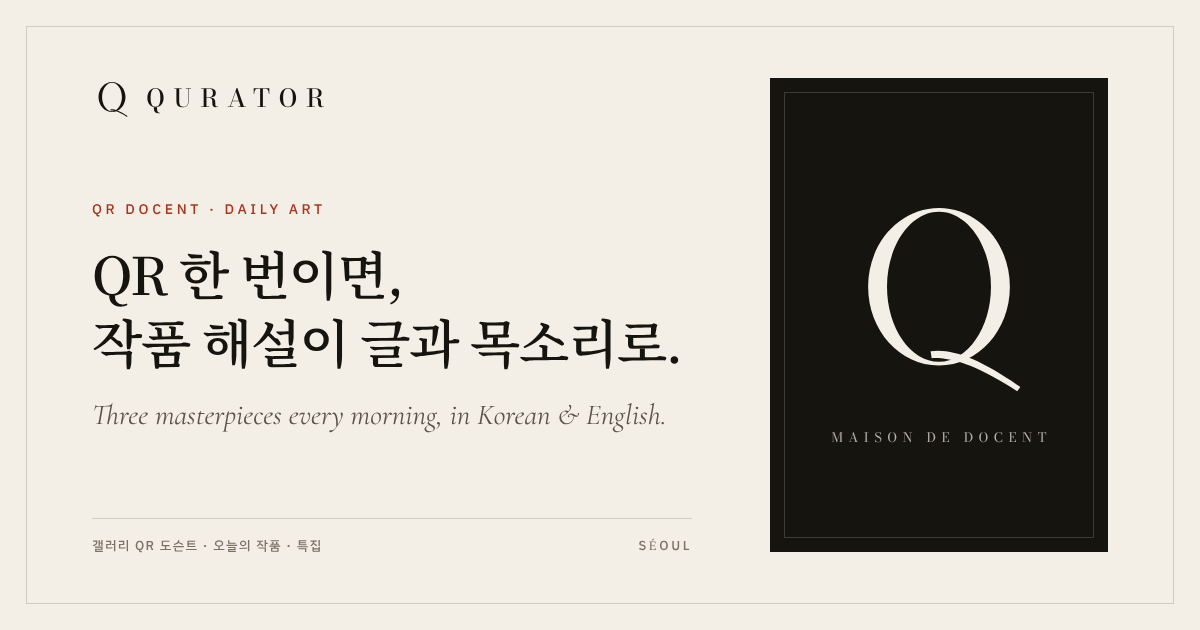
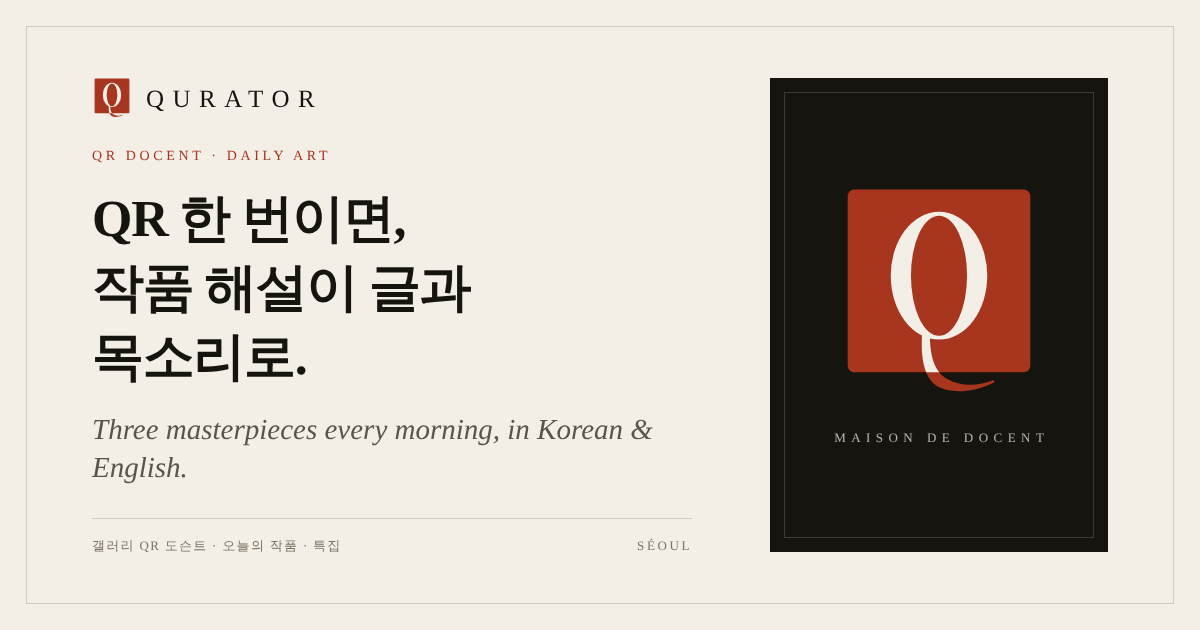
로고 A안(낙관) 적용: 헤더·푸터·파비콘·PWA 아이콘·공유 이미지·공유 카드·앱 리소스·스토어 이미지 스크립트
Claude-Session: https://claude.ai/code/session_018uVF2mKvgsWBzXT1hwYuMU

diff --git a/assets/app.js b/assets/app.js
@@ -469,7 +469,7 @@ function renderShell(route) {
   $$('.lang button').forEach(b => b.classList.toggle('on', b.dataset.lang === S.lang));
   document.documentElement.lang = S.lang;
   $('#foot').innerHTML = `<div class="foot-in">
-    <div class="foot-brand">${LOGO_MARK}<div><div class="fw">QURATOR</div><div class="fs">MAISON DE DOCENT · SÉOUL</div></div></div>
+    <div class="foot-brand">${logoMark()}<div><div class="fw">QURATOR</div><div class="fs">MAISON DE DOCENT · SÉOUL</div></div></div>
     <nav class="foot-links">${PLAY ? '' : `<a href="#/galleries">${S.lang === 'ko' ? '갤러리 도입 안내' : 'For galleries'}</a>`}<a href="#/giving">${t('nav_giving')} · Oriel</a><a href="#/support">${t('nav_support')}</a><a href="${KAKAO}" target="_blank" rel="noopener">${S.lang === 'ko' ? '카카오톡 문의' : 'KakaoTalk'}</a><a href="#/policy/terms">${t('terms')}</a><a href="#/policy/privacy"><b>${t('privacy')}</b></a>${IOS ? '' : `<a href="#/policy/refund">${t('refund')}</a>`}</nav>
   </div>
   <div class="foot-in foot-legal"><span>${esc(t('biz'))}</span><span>© 2026 QURATOR · ${esc(t('foot_note'))}</span></div>`;
@@ -1023,10 +1023,12 @@ async function drawCard(w, lang) {
   };
   x.fillStyle = PAPER; x.fillRect(0, 0, W, H);
   // masthead: Didone Q + wordmark | Daily Art
-  x.save(); x.translate(M - 4, 52); x.scale(1.5, 1.5); x.fillStyle = INK;
-  x.fill(new Path2D('M20 4C12.5 4 6.5 10.7 6.5 19S12.5 34 20 34 33.5 27.3 33.5 19 27.5 4 20 4Zm0 .7c-5.4 0-9.9 6.4-9.9 14.3S14.6 33.3 20 33.3 29.9 26.9 29.9 19 25.4 4.7 20 4.7Z'), 'evenodd');
-  x.fill(new Path2D('M18.4 31.3c4.3-.6 9.6 1.6 17.1 6.8l-.6.8c-7-4.5-12-6.5-16.3-6.3Z')); x.restore();
-  x.fillStyle = INK; x.font = `500 27px ${BOD}`; x.textBaseline = 'alphabetic'; spaced('QURATOR', M + 64, 92, 9);
+  x.save(); x.translate(M - 4, 46); x.scale(.4, .4); x.translate(-19.5, -24);
+  { const tail = new Path2D('M93,137 C93,153 96,165 106,171 C116,177 130,177 142,172 L142.5,173.6 C128,181 110,183 99,177 C88,170 86,154 87,137 Z'); x.fillStyle = '#A8361F'; x.fill(tail);
+    const seal = new Path2D(); seal.roundRect(30, 26, 140, 140, 5); x.fill(seal); x.clip(seal);
+    x.fillStyle = PAPER; x.fill(new Path2D('M63,92 A37,49 0 1 0 137,92 A37,49 0 1 0 63,92 Z M78.5,92 A21.5,46 0 1 0 121.5,92 A21.5,46 0 1 0 78.5,92 Z'), 'evenodd'); x.fill(tail); }
+  x.restore();
+  x.fillStyle = INK; x.font = `500 27px ${BOD}`; x.textBaseline = 'alphabetic'; spaced('QURATOR', M + 76, 92, 9);
   x.fillStyle = MUTED; x.font = `500 17px ${SANS}`; spaced('DAILY ART', W - M, 90, 5, 'right');
   x.fillStyle = 'rgba(22,20,15,.16)'; x.fillRect(M, 128, W - 2 * M, 1);
   // artwork, contained in a soft mat
@@ -1221,7 +1223,9 @@ function viewGalleries() {
 }
 
 /* ---------------- brand ---------------- */
-const LOGO_MARK = '<svg class="mono" viewBox="0 0 40 40" aria-hidden="true"><path fill="currentColor" fill-rule="evenodd" d="M20 4C12.5 4 6.5 10.7 6.5 19S12.5 34 20 34 33.5 27.3 33.5 19 27.5 4 20 4Zm0 .7c-5.4 0-9.9 6.4-9.9 14.3S14.6 33.3 20 33.3 29.9 26.9 29.9 19 25.4 4.7 20 4.7Z"/><path fill="currentColor" d="M18.4 31.3c4.3-.6 9.6 1.6 17.1 6.8l-.6.8c-7-4.5-12-6.5-16.3-6.3Z"/></svg>';
+let _qm = 0;
+const LOGO_MARK_SVG = '<svg class="mono" xmlns="http://www.w3.org/2000/svg" viewBox="19.5 24 161 161" aria-hidden="true"><defs><clipPath id="__ID__"><rect x="30" y="26" width="140" height="140" rx="5"/></clipPath></defs><path fill="#A8361F" d="M93,137 C93,153 96,165 106,171 C116,177 130,177 142,172 L142.5,173.6 C128,181 110,183 99,177 C88,170 86,154 87,137 Z"/><rect x="30" y="26" width="140" height="140" rx="5" fill="#A8361F"/><g clip-path="url(#__ID__)" fill="#F3EFE6"><path fill-rule="evenodd" d="M63,92 A37,49 0 1 0 137,92 A37,49 0 1 0 63,92 Z M78.5,92 A21.5,46 0 1 0 121.5,92 A21.5,46 0 1 0 78.5,92 Z"/><path d="M93,137 C93,153 96,165 106,171 C116,177 130,177 142,172 L142.5,173.6 C128,181 110,183 99,177 C88,170 86,154 87,137 Z"/></g></svg>';
+const logoMark = () => LOGO_MARK_SVG.split('__ID__').join('qm' + (++_qm));
 
 /* ---------------- membership ---------------- */
 /* Subscribers get a signed link #/m/<token> from the private ledger (주문·멤버 장부).
@@ -1432,7 +1436,7 @@ function viewCheckout() {
     ${pending ? `<div class="co-resume"><p><span>${t('co_resume')}</span><b>${esc(pending.id)}</b></p><button type="button" class="btn btn-ink btn-sm" id="coRes">${t('co_resume_b')} →</button></div>` : ''}</div></section>
   <div class="wrap checkout">
     <aside class="co-sum">
-      <div class="co-mark">${LOGO_MARK}</div>
+      <div class="co-mark">${logoMark()}</div>
       <p class="eyebrow">Daily Art Membership</p>
       <div class="co-amt">₩${PAY.price.toLocaleString()}<small> / ${t('co_month')}</small></div>
       <p class="co-vat">${t('co_vat')}</p>
@@ -1481,7 +1485,7 @@ function showOrder(id, o) {
   const rn = o.renew ? `\n현재 만료일: ${o.renew.exp}${o.renew.ref ? `\n링크 번호: ${o.renew.ref}` : ''}` : '';
   const msg = `[QURATOR Daily Art ${o.renew ? '연장' : '구독'} 신청]\n주문번호: ${id}\n이름: ${o.name}\n이메일: ${o.email}\n금액: 월 ${PAY.price.toLocaleString()}원\n입금자명: ${payer}${rn}`;
   $('.checkout').innerHTML = `<div class="co-done">
-    <div class="co-mark">${LOGO_MARK}</div><p class="eyebrow">${o.renew ? 'Renewal' : 'Order'}</p><h2>${t('co_order')}</h2>
+    <div class="co-mark">${logoMark()}</div><p class="eyebrow">${o.renew ? 'Renewal' : 'Order'}</p><h2>${t('co_order')}</h2>
     <div class="co-id">${esc(id)}</div><p>${t('co_order_p')}</p>
     <dl class="co-bank">
       <div><dt>${t('co_acct')}</dt><dd><b>${BANK.name} ${BANK.number}</b> <button type="button" class="co-mini" id="cpa">${t('co_cpacct')}</button></dd></div>
@@ -1501,7 +1505,7 @@ function showOrder(id, o) {
 }
 async function viewPayResult(q) {
   const ok = q.get('pay') === 'success', pend = store.get('q_pending', {});
-  const box = c => { app().innerHTML = `<div class="wrap checkout"><div class="co-done"><div class="co-mark">${LOGO_MARK}</div>${c}</div></div>`; };
+  const box = c => { app().innerHTML = `<div class="wrap checkout"><div class="co-done"><div class="co-mark">${logoMark()}</div>${c}</div></div>`; };
   if (!ok) { box(`<h2>${t('pay_fail')}</h2><p>${esc(q.get('message') || '')}</p><p>${t('pay_fail_p')}</p><div class="co-acts"><a class="btn btn-ink" href="#/checkout">${t('co_pay')}</a><a class="btn btn-kakao" href="${KAKAO}" target="_blank" rel="noopener">${t('co_open')}</a></div>`); return; }
   if (!PAY.apiBase) { box(`<p class="eyebrow">Toss Payments</p><h2>${t('pay_test_ok')}</h2><p>${t('pay_test_p')}</p><div class="co-acts"><a class="btn btn-ink" href="#/today">${t('nav_today')} →</a></div>`); return; }
   box(`<p class="note"><span class="spinner"></span> ${t('pay_wait')}</p>`);

diff --git a/scripts/og.html b/scripts/og.html
@@ -21,11 +21,11 @@ h1{margin-top:22px;font:600 52px/1.32 "Noto Serif KR";letter-spacing:-.025em}
 .seal{position:absolute;right:34px;bottom:34px;width:30px;height:30px;background:#A8361F;border-radius:2px;display:grid;place-items:center;font:600 15px/1 "Noto Serif KR";color:#F3EFE6;box-shadow:inset 0 0 0 2px rgba(255,255,255,.16)}
 </style></head><body>
 <div class="l">
- <div class="brand"><svg viewBox="0 0 40 40"><path fill="#16140F" fill-rule="evenodd" d="M20 4C12.5 4 6.5 10.7 6.5 19S12.5 34 20 34 33.5 27.3 33.5 19 27.5 4 20 4Zm0 .7c-5.4 0-9.9 6.4-9.9 14.3S14.6 33.3 20 33.3 29.9 26.9 29.9 19 25.4 4.7 20 4.7Z"/><path fill="#16140F" d="M18.4 31.3c4.3-.6 9.6 1.6 17.1 6.8l-.6.8c-7-4.5-12-6.5-16.3-6.3Z"/></svg><b>QURATOR</b></div>
+ <div class="brand"><svg xmlns="http://www.w3.org/2000/svg" viewBox="19.5 24 161 161"><defs><clipPath id="qs"><rect x="30" y="26" width="140" height="140" rx="5"/></clipPath></defs><path fill="#A8361F" d="M93,137 C93,153 96,165 106,171 C116,177 130,177 142,172 L142.5,173.6 C128,181 110,183 99,177 C88,170 86,154 87,137 Z"/><rect x="30" y="26" width="140" height="140" rx="5" fill="#A8361F"/><g clip-path="url(#qs)" fill="#F3EFE6"><path fill-rule="evenodd" d="M63,92 A37,49 0 1 0 137,92 A37,49 0 1 0 63,92 Z M78.5,92 A21.5,46 0 1 0 121.5,92 A21.5,46 0 1 0 78.5,92 Z"/><path d="M93,137 C93,153 96,165 106,171 C116,177 130,177 142,172 L142.5,173.6 C128,181 110,183 99,177 C88,170 86,154 87,137 Z"/></g></svg><b>QURATOR</b></div>
  <p class="eyebrow">QR DOCENT · DAILY ART</p>
  <h1>QR 한 번이면,<br>작품 해설이 글과 목소리로.</h1>
  <p class="en">Three masterpieces every morning, in Korean &amp; English.</p>
  <div class="foot"><span style="letter-spacing:.1em">갤러리 QR 도슨트 · 오늘의 작품 · 특집</span><span>SÉOUL</span></div>
 </div>
-<div class="r"><svg viewBox="0 0 40 40"><path fill="currentColor" fill-rule="evenodd" d="M20 4C12.5 4 6.5 10.7 6.5 19S12.5 34 20 34 33.5 27.3 33.5 19 27.5 4 20 4Zm0 .7c-5.4 0-9.9 6.4-9.9 14.3S14.6 33.3 20 33.3 29.9 26.9 29.9 19 25.4 4.7 20 4.7Z"/><path fill="currentColor" d="M18.4 31.3c4.3-.6 9.6 1.6 17.1 6.8l-.6.8c-7-4.5-12-6.5-16.3-6.3Z"/></svg><p class="w">MAISON DE DOCENT</p></div>
+<div class="r"><svg xmlns="http://www.w3.org/2000/svg" viewBox="19.5 24 161 161"><defs><clipPath id="qs"><rect x="30" y="26" width="140" height="140" rx="5"/></clipPath></defs><path fill="#A8361F" d="M93,137 C93,153 96,165 106,171 C116,177 130,177 142,172 L142.5,173.6 C128,181 110,183 99,177 C88,170 86,154 87,137 Z"/><rect x="30" y="26" width="140" height="140" rx="5" fill="#A8361F"/><g clip-path="url(#qs)" fill="#F3EFE6"><path fill-rule="evenodd" d="M63,92 A37,49 0 1 0 137,92 A37,49 0 1 0 63,92 Z M78.5,92 A21.5,46 0 1 0 121.5,92 A21.5,46 0 1 0 78.5,92 Z"/><path d="M93,137 C93,153 96,165 106,171 C116,177 130,177 142,172 L142.5,173.6 C128,181 110,183 99,177 C88,170 86,154 87,137 Z"/></g></svg><p class="w">MAISON DE DOCENT</p></div>
 </body></html>

diff --git a/index.html b/index.html
@@ -31,12 +31,12 @@
 <link rel="preconnect" href="https://fonts.googleapis.com">
 <link rel="preconnect" href="https://fonts.gstatic.com" crossorigin>
 <link href="https://fonts.googleapis.com/css2?family=Bodoni+Moda:ital,wght@0,400;0,500;0,600;1,400&family=Cormorant+Garamond:ital,wght@0,400;0,500;0,600;1,400;1,500&family=Noto+Serif+KR:wght@400;600;700&family=IBM+Plex+Sans+KR:wght@400;500;600&display=swap" rel="stylesheet">
-<link rel="stylesheet" href="assets/app.css?v=27">
+<link rel="stylesheet" href="assets/app.css?v=28">
 </head>
 <body>
 <header class="top" id="top">
   <a class="brand" href="#/" aria-label="QURATOR home">
-    <svg class="mono" viewBox="0 0 40 40" aria-hidden="true"><path fill="currentColor" fill-rule="evenodd" d="M20 4C12.5 4 6.5 10.7 6.5 19S12.5 34 20 34 33.5 27.3 33.5 19 27.5 4 20 4Zm0 .7c-5.4 0-9.9 6.4-9.9 14.3S14.6 33.3 20 33.3 29.9 26.9 29.9 19 25.4 4.7 20 4.7Z"/><path fill="currentColor" d="M18.4 31.3c4.3-.6 9.6 1.6 17.1 6.8l-.6.8c-7-4.5-12-6.5-16.3-6.3Z"/></svg><span class="word">QURATOR</span>
+    <svg class="mono" xmlns="http://www.w3.org/2000/svg" viewBox="19.5 24 161 161" aria-hidden="true"><defs><clipPath id="qh"><rect x="30" y="26" width="140" height="140" rx="5"/></clipPath></defs><path fill="#A8361F" d="M93,137 C93,153 96,165 106,171 C116,177 130,177 142,172 L142.5,173.6 C128,181 110,183 99,177 C88,170 86,154 87,137 Z"/><rect x="30" y="26" width="140" height="140" rx="5" fill="#A8361F"/><g clip-path="url(#qh)" fill="#F3EFE6"><path fill-rule="evenodd" d="M63,92 A37,49 0 1 0 137,92 A37,49 0 1 0 63,92 Z M78.5,92 A21.5,46 0 1 0 121.5,92 A21.5,46 0 1 0 78.5,92 Z"/><path d="M93,137 C93,153 96,165 106,171 C116,177 130,177 142,172 L142.5,173.6 C128,181 110,183 99,177 C88,170 86,154 87,137 Z"/></g></svg><span class="word">QURATOR</span>
   </a>
   <nav class="nav" id="nav"></nav>
   <div class="top-right">
@@ -51,7 +51,7 @@
 <div class="toast" id="toast" role="status"></div>
 <div class="modal" id="modal" hidden></div>
 <script src="https://cdnjs.cloudflare.com/ajax/libs/qrcodejs/1.0.0/qrcode.min.js"></script>
-<script src="assets/app.js?v=31"></script>
+<script src="assets/app.js?v=32"></script>
 <script>/* partner band: web only — the Google Play app shows no external promotion */
 if (!document.documentElement.classList.contains('q-play-app')) { var nb = document.createElement('script'); nb.src = 'https://probe2928-crypto.github.io/chainbrief/network.js'; nb.dataset.site = 'qurator'; nb.defer = true; document.body.appendChild(nb); }</script>
 </body>

diff --git a/sw.js b/sw.js
@@ -1,4 +1,4 @@
-const V = 'qurator-v32';
+const V = 'qurator-v33';
 const SHELL = ['./', 'index.html', 'assets/app.css', 'assets/app.js', 'assets/icon-192.png', 'manifest.webmanifest'];
 self.addEventListener('install', e => { e.waitUntil(caches.open(V).then(c => c.addAll(SHELL)).then(() => self.skipWaiting())); });
 self.addEventListener('activate', e => { e.waitUntil(caches.keys().then(ks => Promise.all(ks.filter(k => k !== V).map(k => caches.delete(k)))).then(() => self.clients.claim())); });

diff --git a/scripts/store_assets.py b/scripts/store_assets.py
@@ -20,7 +20,7 @@ FEATURE = """<!doctype html><html><head><meta charset="utf-8">
 .rule{width:56px;height:1px;background:#A8361F;margin:26px 0 22px}.ko{font-size:27px;line-height:1.5;letter-spacing:-.01em}
 .en{font-family:'Cormorant Garamond',serif;font-style:italic;font-size:22px;color:#cfc6b4;margin-top:12px}</style></head><body>
 <div class="art"><i class="a1"></i><i class="a2"></i></div><div class="copy">
-<svg class="mono" viewBox="0 0 40 40"><path fill="#F3EFE6" fill-rule="evenodd" d="M20 4C12.5 4 6.5 10.7 6.5 19S12.5 34 20 34 33.5 27.3 33.5 19 27.5 4 20 4Zm0 .7c-5.4 0-9.9 6.4-9.9 14.3S14.6 33.3 20 33.3 29.9 26.9 29.9 19 25.4 4.7 20 4.7Z"/><path fill="#A8361F" d="M18.4 31.3c4.3-.6 9.6 1.6 17.1 6.8l-.6.8c-7-4.5-12-6.5-16.3-6.3Z"/></svg>
+<svg class="mono" xmlns="http://www.w3.org/2000/svg" viewBox="19.5 24 161 161"><defs><clipPath id="qst"><rect x="30" y="26" width="140" height="140" rx="5"/></clipPath></defs><path fill="#A8361F" d="M93,137 C93,153 96,165 106,171 C116,177 130,177 142,172 L142.5,173.6 C128,181 110,183 99,177 C88,170 86,154 87,137 Z"/><rect x="30" y="26" width="140" height="140" rx="5" fill="#A8361F"/><g clip-path="url(#qst)" fill="#F3EFE6"><path fill-rule="evenodd" d="M63,92 A37,49 0 1 0 137,92 A37,49 0 1 0 63,92 Z M78.5,92 A21.5,46 0 1 0 121.5,92 A21.5,46 0 1 0 78.5,92 Z"/><path d="M93,137 C93,153 96,165 106,171 C116,177 130,177 142,172 L142.5,173.6 C128,181 110,183 99,177 C88,170 86,154 87,137 Z"/></g></svg>
 <div class="word">QURATOR</div><div class="rule"></div>
 <div class="ko">고전과 현대, 매일 세 점.<br>도슨트의 목소리로.</div><div class="en">Daily Art · Masterpieces, told by a docent</div></div></body></html>"""
 

diff --git a/docs/ROADMAP.md b/docs/ROADMAP.md
@@ -22,6 +22,7 @@
 
 ## 사용자 조치 필요
 - Google Play: 2026-10-31 앱 생성·앱 콘텐츠 신고·스토어 등록정보·비공개 테스트(대한민국, 목록 'QURATOR 테스터') 제출 완료, 구글 검토 중(최대 7일). 남은 것: 테스터 Gmail 12명 이상 목록에 추가 → 14일 유지 → 프로덕션 신청
+- 로고 A안(낙관) 적용 완료(웹·파비콘·PWA 아이콘·공유이미지·앱 리소스). 남은 것: 비공개 테스트 승인 뒤 Play 스토어 아이콘(assets/icon-512.png)·대표 그래픽 교체, 다음 AAB 빌드에 새 런처 아이콘 반영
 - 앱 첫 업로드 후 Play Console '앱 서명 키' SHA-256 전달 → probe2928-crypto.github.io/.well-known/assetlinks.json 에 지문 추가(현재 업로드 키 지문만 있음)
 - claude.ai 설정 > Capabilities 허용 도메인에 wikipedia.org, wikimedia.org, github.io, clevelandart.org, artic.edu 추가 → 정기 점검에서 라이브 사이트·작품 이미지 자동 확인 가능 (2026-10-26·10-27 회차: 모두 차단돼 점검 못 함)
 - 사업자등록(업종에 전자상거래/정보통신 포함) + 통신판매업 신고 → 푸터 사업자 정보 게시
@@ -30,6 +31,7 @@
 - 계좌이체 구독자: 입금 확인 → 'QURATOR 멤버 장부'에서 링크 발급 → 카카오톡으로 전송 (키 파일 qurator-member-key.json 보관 필수)
 
 ## 완료
+- 2026-10-31 로고 리뉴얼: 세준이 A안 '낙관'(주홍 인장 안 디돈 Q, 꼬리가 인장 밖으로) 선택. 후보·원본은 docs/brand/logo-2026-10/
 - 2026-10-31 Play Console: 앱 생성(kr.qurator.dailyart), 개인정보·앱 접근(QURATOR-BETA)·광고 없음·광고ID 없음·정부/금융/건강 해당없음·대상 13+·데이터 수집 없음·콘텐츠 등급(IARC 12+), 카테고리 예술 및 디자인, 스토어 문구·아이콘·대표 그래픽(몽유도원도×칸딘스키)·스크린샷 6장, 비공개 테스트 1.0.0(1) 업로드·검토 제출. 앱 모드에서 파트너 배너 숨김.
 - 2026-10-31 검색·공유: index.html 메타 정비(한국어 설명, canonical, og:type/url/site_name/locale, og:image 1200×630, 트위터 카드) + 대표 공유 이미지 assets/og.png(원본 scripts/og.html) · 휴대폰에서 작품 '공유'·특집 '이 특집 공유하기'가 공유 시트(카카오톡 등)로 제목·작가·한 줄 소개와 함께 열림, 데스크톱은 링크 복사 · 공유 링크·QR 주소에서 ?src=twa 제거(앱에서 만든 링크가 받는 사람 브라우저를 앱 모드로 여는 문제), iOS 앱 링크 복사가 capacitor:// 주소였던 문제 수정 · 작품·특집 페이지 브라우저 탭 제목
 - 2026-10-29 특집 '이번 시즌 꼭 봐야 할 해외 전시 12'(overseas-exhibitions-2026-autumn: 커샛·수르바란·틴토레토·기메 책가도 / 르누아르·반 에이크(11/21)·할스–렘브란트(11/6)·휘슬러 / 코레조·베를린 초상화·라스니히와 뭉크·여성 화가) · 새 작품 5점(김홍도 마상청앵도, 나혜석 자화상, 카유보트 파리의 거리 비 오는 날, 아르테미시아 홀로페르네스의 목을 베는 유디트, 히로시게 오하시 소나기) · daily 11/6~11/7 · 특집 영문 날짜 어순 수정(As of 2026.10.29) · README 작품 수 갱신. 다음 특집 후보: 11월 뉴욕 메이저 경매 리포트(11월 셋째 주 이후), 그림 속 겨울
